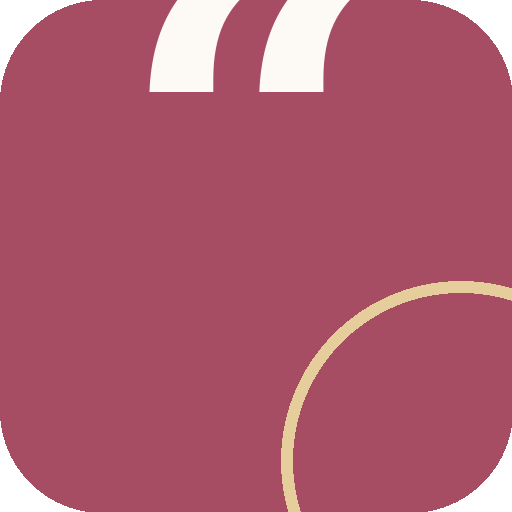
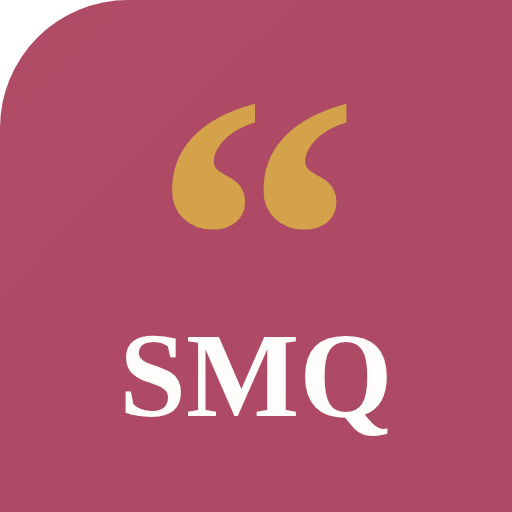
Add files via upload

diff --git a/girl-mom-captions.html b/girl-mom-captions.html
@@ -14,8 +14,6 @@
 <meta name="twitter:card" content="summary">
 <meta name="twitter:title" content="Girl Mom Captions: One-Liners That Fit the Photo">
 <meta name="twitter:description" content="Girl Mom Captions built for the scroll: short, real, copy in one tap. Or drop one onto a matching card. Currently free.">
-<link rel="icon" href="/icon-192.png">
-<link rel="apple-touch-icon" href="/icon-192.png">
 <link rel="manifest" href="/manifest.json">
 <link rel="preconnect" href="https://fonts.googleapis.com">
 <link rel="preconnect" href="https://fonts.gstatic.com" crossorigin>
@@ -25,6 +23,9 @@
 <script type="application/ld+json">{"@context": "https://schema.org", "@type": "BreadcrumbList", "itemListElement": [{"@type": "ListItem", "position": 1, "name": "Strong Mom Quotes", "item": "https://strongmomquotes.com/"}, {"@type": "ListItem", "position": 2, "name": "Captions & Occasions", "item": "https://strongmomquotes.com/captions-hub.html"}, {"@type": "ListItem", "position": 3, "name": "Girl Mom Captions", "item": "https://strongmomquotes.com/girl-mom-captions.html"}]}</script>
 <script type="application/ld+json">{"@context": "https://schema.org", "@type": "CollectionPage", "name": "Girl Mom Captions: One-Liners That Fit the Photo", "description": "Girl Mom Captions built for the scroll: short, real, copy in one tap. Or drop one onto a matching card. Currently free.", "url": "https://strongmomquotes.com/girl-mom-captions.html", "isPartOf": {"@type": "WebSite", "name": "Strong Mom Quotes", "url": "https://strongmomquotes.com/"}}</script>
 <script type="application/ld+json">{"@context": "https://schema.org", "@type": "FAQPage", "mainEntity": [{"@type": "Question", "name": "What is a good caption for this?", "acceptedAnswer": {"@type": "Answer", "text": "“Happy Mother's Day to my first home.” is a strong place to start. The ones that work are specific rather than generic: they name the real feeling instead of reaching for something polished. Pick the line on this page that sounds like your actual situation, not just the prettiest one."}}, {"@type": "Question", "name": "Are these girl mom captions free to use?", "acceptedAnswer": {"@type": "Answer", "text": "Yes. Every quote here is original and written on this site, free to read, copy and share. You can also turn any one into a picture card with the free card maker, with no payment and no card details, currently free. Because they are original and never misattributed, they are also safe to print on a card, mug or gift."}}, {"@type": "Question", "name": "How long should a caption be?", "acceptedAnswer": {"@type": "Answer", "text": "For a quote caption, one line is usually enough. A short, punchy line reads before the scroll and pairs cleanly with a photo, which is why every line on this page is kept short on purpose."}}]}</script>
+<link rel="icon" type="image/svg+xml" href="/favicon.svg">
+<link rel="icon" type="image/png" sizes="32x32" href="/favicon-32.png">
+<link rel="apple-touch-icon" href="/apple-touch-icon.png">
 </head>
 <body>
 <header class="site"><div class="wrap"><nav class="nav" aria-label="Main">

diff --git a/girl-mom-quotes.html b/girl-mom-quotes.html
@@ -14,8 +14,6 @@
 <meta name="twitter:card" content="summary">
 <meta name="twitter:title" content="Girl Mom Quotes: Original Words to Read, Copy and Share">
 <meta name="twitter:description" content="Original girl mom quotes, free to read and copy. Turn any one into a shareable card in seconds. Currently free, no signup to read.">
-<link rel="icon" href="/icon-192.png">
-<link rel="apple-touch-icon" href="/icon-192.png">
 <link rel="manifest" href="/manifest.json">
 <link rel="preconnect" href="https://fonts.googleapis.com">
 <link rel="preconnect" href="https://fonts.gstatic.com" crossorigin>
@@ -25,6 +23,9 @@
 <script type="application/ld+json">{"@context": "https://schema.org", "@type": "BreadcrumbList", "itemListElement": [{"@type": "ListItem", "position": 1, "name": "Strong Mom Quotes", "item": "https://strongmomquotes.com/"}, {"@type": "ListItem", "position": 2, "name": "Mom Quote Collections", "item": "https://strongmomquotes.com/collections-hub.html"}, {"@type": "ListItem", "position": 3, "name": "Girl Mom Quotes", "item": "https://strongmomquotes.com/girl-mom-quotes.html"}]}</script>
 <script type="application/ld+json">{"@context": "https://schema.org", "@type": "CollectionPage", "name": "Girl Mom Quotes: Original Words to Read, Copy and Share", "description": "Original girl mom quotes, free to read and copy. Turn any one into a shareable card in seconds. Currently free, no signup to read.", "url": "https://strongmomquotes.com/girl-mom-quotes.html", "isPartOf": {"@type": "WebSite", "name": "Strong Mom Quotes", "url": "https://strongmomquotes.com/"}}</script>
 <script type="application/ld+json">{"@context": "https://schema.org", "@type": "FAQPage", "mainEntity": [{"@type": "Question", "name": "What is a good girl mom quote?", "acceptedAnswer": {"@type": "Answer", "text": "“She is watching how you love yourself. Teach her by being kind to you.” is a strong place to start. The ones that work are specific rather than generic: they name the real feeling instead of reaching for something polished. Pick the line on this page that sounds like your actual situation, not just the prettiest one."}}, {"@type": "Question", "name": "Are these girl mom quotes free to use?", "acceptedAnswer": {"@type": "Answer", "text": "Yes. Every quote here is original and written on this site, free to read, copy and share. You can also turn any one into a picture card with the free card maker, with no payment and no card details, currently free. Because they are original and never misattributed, they are also safe to print on a card, mug or gift."}}, {"@type": "Question", "name": "Can I turn these into cards for Pinterest or Instagram?", "acceptedAnswer": {"@type": "Answer", "text": "Yes. Every quote has a Make this a card button that opens the free card maker with the words already loaded. Pick a background and a size for Pinterest, Instagram or stories, and download it. Currently free, no payment details."}}]}</script>
+<link rel="icon" type="image/svg+xml" href="/favicon.svg">
+<link rel="icon" type="image/png" sizes="32x32" href="/favicon-32.png">
+<link rel="apple-touch-icon" href="/apple-touch-icon.png">
 </head>
 <body>
 <header class="site"><div class="wrap"><nav class="nav" aria-label="Main">

diff --git a/grandma-affirmations.html b/grandma-affirmations.html
@@ -14,8 +14,6 @@
 <meta name="twitter:card" content="summary">
 <meta name="twitter:title" content="Affirmations for Grandmothers | Strong Mom Quotes">
 <meta name="twitter:description" content="Affirmations for Grandmothers that acknowledge the hard parts, never toxic positivity. Free to read, copy or turn into a card.">
-<link rel="icon" href="/icon-192.png">
-<link rel="apple-touch-icon" href="/icon-192.png">
 <link rel="manifest" href="/manifest.json">
 <link rel="preconnect" href="https://fonts.googleapis.com">
 <link rel="preconnect" href="https://fonts.gstatic.com" crossorigin>
@@ -25,6 +23,9 @@
 <script type="application/ld+json">{"@context": "https://schema.org", "@type": "BreadcrumbList", "itemListElement": [{"@type": "ListItem", "position": 1, "name": "Strong Mom Quotes", "item": "https://strongmomquotes.com/"}, {"@type": "ListItem", "position": 2, "name": "Affirmations", "item": "https://strongmomquotes.com/affirmations-hub.html"}, {"@type": "ListItem", "position": 3, "name": "Affirmations for Grandmothers", "item": "https://strongmomquotes.com/grandma-affirmations.html"}]}</script>
 <script type="application/ld+json">{"@context": "https://schema.org", "@type": "CollectionPage", "name": "Affirmations for Grandmothers | Strong Mom Quotes", "description": "Affirmations for Grandmothers that acknowledge the hard parts, never toxic positivity. Free to read, copy or turn into a card.", "url": "https://strongmomquotes.com/grandma-affirmations.html", "isPartOf": {"@type": "WebSite", "name": "Strong Mom Quotes", "url": "https://strongmomquotes.com/"}}</script>
 <script type="application/ld+json">{"@context": "https://schema.org", "@type": "FAQPage", "mainEntity": [{"@type": "Question", "name": "What is a good affirmations for grandmother?", "acceptedAnswer": {"@type": "Answer", "text": "“The world's okayest title I will ever love: your kid.” is a strong place to start. The ones that work are specific rather than generic: they name the real feeling instead of reaching for something polished. Pick the line on this page that sounds like your actual situation, not just the prettiest one."}}, {"@type": "Question", "name": "Are these affirmations for grandmothers free to use?", "acceptedAnswer": {"@type": "Answer", "text": "Yes. Every quote here is original and written on this site, free to read, copy and share. You can also turn any one into a picture card with the free card maker, with no payment and no card details, currently free. Because they are original and never misattributed, they are also safe to print on a card, mug or gift."}}, {"@type": "Question", "name": "Do affirmations actually help, or is it just positive thinking?", "acceptedAnswer": {"@type": "Answer", "text": "Used honestly, an affirmation is not magic and it is not toxic positivity. It interrupts the shame spiral that says you are failing and offers something truer to hold instead. If a line feels untrue today, say it anyway; that is how belief is slowly rebuilt."}}]}</script>
+<link rel="icon" type="image/svg+xml" href="/favicon.svg">
+<link rel="icon" type="image/png" sizes="32x32" href="/favicon-32.png">
+<link rel="apple-touch-icon" href="/apple-touch-icon.png">
 </head>
 <body>
 <header class="site"><div class="wrap"><nav class="nav" aria-label="Main">

diff --git a/grandma-captions.html b/grandma-captions.html
@@ -14,8 +14,6 @@
 <meta name="twitter:card" content="summary">
 <meta name="twitter:title" content="Grandma Captions: One-Liners That Fit the Photo">
 <meta name="twitter:description" content="Grandma Captions built for the scroll: short, real, copy in one tap. Or drop one onto a matching card. Currently free.">
-<link rel="icon" href="/icon-192.png">
-<link rel="apple-touch-icon" href="/icon-192.png">
 <link rel="manifest" href="/manifest.json">
 <link rel="preconnect" href="https://fonts.googleapis.com">
 <link rel="preconnect" href="https://fonts.gstatic.com" crossorigin>
@@ -25,6 +23,9 @@
 <script type="application/ld+json">{"@context": "https://schema.org", "@type": "BreadcrumbList", "itemListElement": [{"@type": "ListItem", "position": 1, "name": "Strong Mom Quotes", "item": "https://strongmomquotes.com/"}, {"@type": "ListItem", "position": 2, "name": "Captions & Occasions", "item": "https://strongmomquotes.com/captions-hub.html"}, {"@type": "ListItem", "position": 3, "name": "Grandma Captions", "item": "https://strongmomquotes.com/grandma-captions.html"}]}</script>
 <script type="application/ld+json">{"@context": "https://schema.org", "@type": "CollectionPage", "name": "Grandma Captions: One-Liners That Fit the Photo", "description": "Grandma Captions built for the scroll: short, real, copy in one tap. Or drop one onto a matching card. Currently free.", "url": "https://strongmomquotes.com/grandma-captions.html", "isPartOf": {"@type": "WebSite", "name": "Strong Mom Quotes", "url": "https://strongmomquotes.com/"}}</script>
 <script type="application/ld+json">{"@context": "https://schema.org", "@type": "FAQPage", "mainEntity": [{"@type": "Question", "name": "What is a good caption for this?", "acceptedAnswer": {"@type": "Answer", "text": "“Grandmothers are mothers with frosting.” is a strong place to start. The ones that work are specific rather than generic: they name the real feeling instead of reaching for something polished. Pick the line on this page that sounds like your actual situation, not just the prettiest one."}}, {"@type": "Question", "name": "Are these grandma captions free to use?", "acceptedAnswer": {"@type": "Answer", "text": "Yes. Every quote here is original and written on this site, free to read, copy and share. You can also turn any one into a picture card with the free card maker, with no payment and no card details, currently free. Because they are original and never misattributed, they are also safe to print on a card, mug or gift."}}, {"@type": "Question", "name": "How long should a caption be?", "acceptedAnswer": {"@type": "Answer", "text": "For a quote caption, one line is usually enough. A short, punchy line reads before the scroll and pairs cleanly with a photo, which is why every line on this page is kept short on purpose."}}]}</script>
+<link rel="icon" type="image/svg+xml" href="/favicon.svg">
+<link rel="icon" type="image/png" sizes="32x32" href="/favicon-32.png">
+<link rel="apple-touch-icon" href="/apple-touch-icon.png">
 </head>
 <body>
 <header class="site"><div class="wrap"><nav class="nav" aria-label="Main">

diff --git a/grandma-quotes.html b/grandma-quotes.html
@@ -14,8 +14,6 @@
 <meta name="twitter:card" content="summary">
 <meta name="twitter:title" content="Grandma Quotes: Original Words to Read, Copy and Share">
 <meta name="twitter:description" content="Original grandma quotes, free to read and copy. Turn any one into a shareable card in seconds. Currently free.">
-<link rel="icon" href="/icon-192.png">
-<link rel="apple-touch-icon" href="/icon-192.png">
 <link rel="manifest" href="/manifest.json">
 <link rel="preconnect" href="https://fonts.googleapis.com">
 <link rel="preconnect" href="https://fonts.gstatic.com" crossorigin>
@@ -25,6 +23,9 @@
 <script type="application/ld+json">{"@context": "https://schema.org", "@type": "BreadcrumbList", "itemListElement": [{"@type": "ListItem", "position": 1, "name": "Strong Mom Quotes", "item": "https://strongmomquotes.com/"}, {"@type": "ListItem", "position": 2, "name": "Mom Quote Collections", "item": "https://strongmomquotes.com/collections-hub.html"}, {"@type": "ListItem", "position": 3, "name": "Grandma Quotes", "item": "https://strongmomquotes.com/grandma-quotes.html"}]}</script>
 <script type="application/ld+json">{"@context": "https://schema.org", "@type": "CollectionPage", "name": "Grandma Quotes: Original Words to Read, Copy and Share", "description": "Original grandma quotes, free to read and copy. Turn any one into a shareable card in seconds. Currently free.", "url": "https://strongmomquotes.com/grandma-quotes.html", "isPartOf": {"@type": "WebSite", "name": "Strong Mom Quotes", "url": "https://strongmomquotes.com/"}}</script>
 <script type="application/ld+json">{"@context": "https://schema.org", "@type": "FAQPage", "mainEntity": [{"@type": "Question", "name": "What is a good grandma quote?", "acceptedAnswer": {"@type": "Answer", "text": "“She earns the title slowly and keeps it forever.” is a strong place to start. The ones that work are specific rather than generic: they name the real feeling instead of reaching for something polished. Pick the line on this page that sounds like your actual situation, not just the prettiest one."}}, {"@type": "Question", "name": "Are these grandma quotes free to use?", "acceptedAnswer": {"@type": "Answer", "text": "Yes. Every quote here is original and written on this site, free to read, copy and share. You can also turn any one into a picture card with the free card maker, with no payment and no card details, currently free. Because they are original and never misattributed, they are also safe to print on a card, mug or gift."}}, {"@type": "Question", "name": "Can I turn these into cards for Pinterest or Instagram?", "acceptedAnswer": {"@type": "Answer", "text": "Yes. Every quote has a Make this a card button that opens the free card maker with the words already loaded. Pick a background and a size for Pinterest, Instagram or stories, and download it. Currently free, no payment details."}}]}</script>
+<link rel="icon" type="image/svg+xml" href="/favicon.svg">
+<link rel="icon" type="image/png" sizes="32x32" href="/favicon-32.png">
+<link rel="apple-touch-icon" href="/apple-touch-icon.png">
 </head>
 <body>
 <header class="site"><div class="wrap"><nav class="nav" aria-label="Main">

diff --git a/index.html b/index.html
@@ -14,8 +14,6 @@
 <meta name="twitter:card" content="summary">
 <meta name="twitter:title" content="Strong Mom Quotes: Free Quotes and Quote Card Maker">
 <meta name="twitter:description" content="Hundreds of original strong mom quotes, free to read, copy and share. Turn any quote into a beautiful shareable card with our free card maker.">
-<link rel="icon" href="/icon-192.png">
-<link rel="apple-touch-icon" href="/icon-192.png">
 <link rel="manifest" href="/manifest.json">
 <link rel="preconnect" href="https://fonts.googleapis.com">
 <link rel="preconnect" href="https://fonts.gstatic.com" crossorigin>
@@ -43,6 +41,9 @@
 {"@type":"Question","name":"Why do I have to click a link in my email?","acceptedAnswer":{"@type":"Answer","text":"That one click is how we keep the list free of bots without ever showing you a puzzle or a checkbox. Nothing is stored as a real signup until you confirm, and nothing unlocks until then either. The link works for 48 hours, and if it expires you can request a fresh one in seconds."}},{"@type":"Question","name":"I got a new phone. How do I unlock the card maker again?","acceptedAnswer":{"@type":"Answer","text":"Tap Sign in at the top of any page and enter the same email you confirmed before. The card maker unlocks straight away on the new device. There is no password to remember."}},{"@type":"Question","name":"How do I unsubscribe or delete my email?","acceptedAnswer":{"@type":"Answer","text":"Every email we send includes an unsubscribe link. You can also write to [email redacted] at any time and we will delete your address from our records."}}
 ]}
 </script>
+<link rel="icon" type="image/svg+xml" href="/favicon.svg">
+<link rel="icon" type="image/png" sizes="32x32" href="/favicon-32.png">
+<link rel="apple-touch-icon" href="/apple-touch-icon.png">
 </head>
 <body>
 <header class="site"><div class="wrap"><nav class="nav" aria-label="Main">

diff --git a/inspirational-mom-quotes.html b/inspirational-mom-quotes.html
@@ -14,8 +14,6 @@
 <meta name="twitter:card" content="summary">
 <meta name="twitter:title" content="Inspirational Mom Quotes: Made to Fit Anywhere">
 <meta name="twitter:description" content="Inspirational Mom Quotes: short enough for a caption, a card or a print. Free to copy, or make a matching card.">
-<link rel="icon" href="/icon-192.png">
-<link rel="apple-touch-icon" href="/icon-192.png">
 <link rel="manifest" href="/manifest.json">
 <link rel="preconnect" href="https://fonts.googleapis.com">
 <link rel="preconnect" href="https://fonts.gstatic.com" crossorigin>
@@ -25,6 +23,9 @@
 <script type="application/ld+json">{"@context": "https://schema.org", "@type": "BreadcrumbList", "itemListElement": [{"@type": "ListItem", "position": 1, "name": "Strong Mom Quotes", "item": "https://strongmomquotes.com/"}, {"@type": "ListItem", "position": 2, "name": "Short & Format", "item": "https://strongmomquotes.com/formats-hub.html"}, {"@type": "ListItem", "position": 3, "name": "Inspirational Mom Quotes", "item": "https://strongmomquotes.com/inspirational-mom-quotes.html"}]}</script>
 <script type="application/ld+json">{"@context": "https://schema.org", "@type": "CollectionPage", "name": "Inspirational Mom Quotes: Made to Fit Anywhere", "description": "Inspirational Mom Quotes: short enough for a caption, a card or a print. Free to copy, or make a matching card.", "url": "https://strongmomquotes.com/inspirational-mom-quotes.html", "isPartOf": {"@type": "WebSite", "name": "Strong Mom Quotes", "url": "https://strongmomquotes.com/"}}</script>
 <script type="application/ld+json">{"@context": "https://schema.org", "@type": "FAQPage", "mainEntity": [{"@type": "Question", "name": "What is a good inspirational mom quote?", "acceptedAnswer": {"@type": "Answer", "text": "“Rest when you can, forgive yourself when you cannot, and keep going.” is a strong place to start. The ones that work are specific rather than generic: they name the real feeling instead of reaching for something polished. Pick the line on this page that sounds like your actual situation, not just the prettiest one."}}, {"@type": "Question", "name": "Are these inspirational mom quotes free to use?", "acceptedAnswer": {"@type": "Answer", "text": "Yes. Every quote here is original and written on this site, free to read, copy and share. You can also turn any one into a picture card with the free card maker, with no payment and no card details, currently free. Because they are original and never misattributed, they are also safe to print on a card, mug or gift."}}, {"@type": "Question", "name": "Can I turn these into cards for Pinterest or Instagram?", "acceptedAnswer": {"@type": "Answer", "text": "Yes. Every quote has a Make this a card button that opens the free card maker with the words already loaded. Pick a background and a size for Pinterest, Instagram or stories, and download it. Currently free, no payment details."}}]}</script>
+<link rel="icon" type="image/svg+xml" href="/favicon.svg">
+<link rel="icon" type="image/png" sizes="32x32" href="/favicon-32.png">
+<link rel="apple-touch-icon" href="/apple-touch-icon.png">
 </head>
 <body>
 <header class="site"><div class="wrap"><nav class="nav" aria-label="Main">

diff --git a/loss-affirmations.html b/loss-affirmations.html
@@ -14,8 +14,6 @@
 <meta name="twitter:card" content="summary">
 <meta name="twitter:title" content="Gentle Affirmations After Loss | Strong Mom Quotes">
 <meta name="twitter:description" content="Gentle Affirmations After Loss that acknowledge the hard parts, never toxic positivity. Free to read, copy or turn into a card to keep.">
-<link rel="icon" href="/icon-192.png">
-<link rel="apple-touch-icon" href="/icon-192.png">
 <link rel="manifest" href="/manifest.json">
 <link rel="preconnect" href="https://fonts.googleapis.com">
 <link rel="preconnect" href="https://fonts.gstatic.com" crossorigin>
@@ -25,6 +23,9 @@
 <script type="application/ld+json">{"@context": "https://schema.org", "@type": "BreadcrumbList", "itemListElement": [{"@type": "ListItem", "position": 1, "name": "Strong Mom Quotes", "item": "https://strongmomquotes.com/"}, {"@type": "ListItem", "position": 2, "name": "Affirmations", "item": "https://strongmomquotes.com/affirmations-hub.html"}, {"@type": "ListItem", "position": 3, "name": "Gentle Affirmations After Loss", "item": "https://strongmomquotes.com/loss-affirmations.html"}]}</script>
 <script type="application/ld+json">{"@context": "https://schema.org", "@type": "CollectionPage", "name": "Gentle Affirmations After Loss | Strong Mom Quotes", "description": "Gentle Affirmations After Loss that acknowledge the hard parts, never toxic positivity. Free to read, copy or turn into a card to keep.", "url": "https://strongmomquotes.com/loss-affirmations.html", "isPartOf": {"@type": "WebSite", "name": "Strong Mom Quotes", "url": "https://strongmomquotes.com/"}}</script>
 <script type="application/ld+json">{"@context": "https://schema.org", "@type": "FAQPage", "mainEntity": [{"@type": "Question", "name": "What is a good gentle affirmations after lo?", "acceptedAnswer": {"@type": "Answer", "text": "“There is no wrong way to carry a grief this size.” is a strong place to start. The ones that work are specific rather than generic: they name the real feeling instead of reaching for something polished. Pick the line on this page that sounds like your actual situation, not just the prettiest one."}}, {"@type": "Question", "name": "Are these gentle affirmations after loss free to use?", "acceptedAnswer": {"@type": "Answer", "text": "Yes. Every quote here is original and written on this site, free to read, copy and share. You can also turn any one into a picture card with the free card maker, with no payment and no card details, currently free. Because they are original and never misattributed, they are also safe to print on a card, mug or gift."}}, {"@type": "Question", "name": "Do affirmations actually help, or is it just positive thinking?", "acceptedAnswer": {"@type": "Answer", "text": "Used honestly, an affirmation is not magic and it is not toxic positivity. It interrupts the shame spiral that says you are failing and offers something truer to hold instead. If a line feels untrue today, say it anyway; that is how belief is slowly rebuilt."}}]}</script>
+<link rel="icon" type="image/svg+xml" href="/favicon.svg">
+<link rel="icon" type="image/png" sizes="32x32" href="/favicon-32.png">
+<link rel="apple-touch-icon" href="/apple-touch-icon.png">
 </head>
 <body>
 <header class="site"><div class="wrap"><nav class="nav" aria-label="Main">

diff --git a/mom-and-daughter-captions.html b/mom-and-daughter-captions.html
@@ -14,8 +14,6 @@
 <meta name="twitter:card" content="summary">
 <meta name="twitter:title" content="Mom and Daughter Captions: One-Liners That Fit the Photo">
 <meta name="twitter:description" content="Mom and Daughter Captions built for the scroll: short, real, copy in one tap. Or drop one onto a matching card. Currently free.">
-<link rel="icon" href="/icon-192.png">
-<link rel="apple-touch-icon" href="/icon-192.png">
 <link rel="manifest" href="/manifest.json">
 <link rel="preconnect" href="https://fonts.googleapis.com">
 <link rel="preconnect" href="https://fonts.gstatic.com" crossorigin>
@@ -25,6 +23,9 @@
 <script type="application/ld+json">{"@context": "https://schema.org", "@type": "BreadcrumbList", "itemListElement": [{"@type": "ListItem", "position": 1, "name": "Strong Mom Quotes", "item": "https://strongmomquotes.com/"}, {"@type": "ListItem", "position": 2, "name": "Captions & Occasions", "item": "https://strongmomquotes.com/captions-hub.html"}, {"@type": "ListItem", "position": 3, "name": "Mom and Daughter Captions", "item": "https://strongmomquotes.com/mom-and-daughter-captions.html"}]}</script>
 <script type="application/ld+json">{"@context": "https://schema.org", "@type": "CollectionPage", "name": "Mom and Daughter Captions: One-Liners That Fit the Photo", "description": "Mom and Daughter Captions built for the scroll: short, real, copy in one tap. Or drop one onto a matching card. Currently free.", "url": "https://strongmomquotes.com/mom-and-daughter-captions.html", "isPartOf": {"@type": "WebSite", "name": "Strong Mom Quotes", "url": "https://strongmomquotes.com/"}}</script>
 <script type="application/ld+json">{"@context": "https://schema.org", "@type": "FAQPage", "mainEntity": [{"@type": "Question", "name": "What is a good caption for this?", "acceptedAnswer": {"@type": "Answer", "text": "“For my mom, who taught me everything that matters.” is a strong place to start. The ones that work are specific rather than generic: they name the real feeling instead of reaching for something polished. Pick the line on this page that sounds like your actual situation, not just the prettiest one."}}, {"@type": "Question", "name": "Are these mom and daughter captions free to use?", "acceptedAnswer": {"@type": "Answer", "text": "Yes. Every quote here is original and written on this site, free to read, copy and share. You can also turn any one into a picture card with the free card maker, with no payment and no card details, currently free. Because they are original and never misattributed, they are also safe to print on a card, mug or gift."}}, {"@type": "Question", "name": "How long should a caption be?", "acceptedAnswer": {"@type": "Answer", "text": "For a quote caption, one line is usually enough. A short, punchy line reads before the scroll and pairs cleanly with a photo, which is why every line on this page is kept short on purpose."}}]}</script>
+<link rel="icon" type="image/svg+xml" href="/favicon.svg">
+<link rel="icon" type="image/png" sizes="32x32" href="/favicon-32.png">
+<link rel="apple-touch-icon" href="/apple-touch-icon.png">
 </head>
 <body>
 <header class="site"><div class="wrap"><nav class="nav" aria-label="Main">

diff --git a/mom-and-son-captions.html b/mom-and-son-captions.html
@@ -14,8 +14,6 @@
 <meta name="twitter:card" content="summary">
 <meta name="twitter:title" content="Mom and Son Captions: One-Liners That Fit the Photo">
 <meta name="twitter:description" content="Mom and Son Captions built for the scroll: short, real, copy in one tap. Or drop one onto a matching card. Currently free.">
-<link rel="icon" href="/icon-192.png">
-<link rel="apple-touch-icon" href="/icon-192.png">
 <link rel="manifest" href="/manifest.json">
 <link rel="preconnect" href="https://fonts.googleapis.com">
 <link rel="preconnect" href="https://fonts.gstatic.com" crossorigin>
@@ -25,6 +23,9 @@
 <script type="application/ld+json">{"@context": "https://schema.org", "@type": "BreadcrumbList", "itemListElement": [{"@type": "ListItem", "position": 1, "name": "Strong Mom Quotes", "item": "https://strongmomquotes.com/"}, {"@type": "ListItem", "position": 2, "name": "Captions & Occasions", "item": "https://strongmomquotes.com/captions-hub.html"}, {"@type": "ListItem", "position": 3, "name": "Mom and Son Captions", "item": "https://strongmomquotes.com/mom-and-son-captions.html"}]}</script>
 <script type="application/ld+json">{"@context": "https://schema.org", "@type": "CollectionPage", "name": "Mom and Son Captions: One-Liners That Fit the Photo", "description": "Mom and Son Captions built for the scroll: short, real, copy in one tap. Or drop one onto a matching card. Currently free.", "url": "https://strongmomquotes.com/mom-and-son-captions.html", "isPartOf": {"@type": "WebSite", "name": "Strong Mom Quotes", "url": "https://strongmomquotes.com/"}}</script>
 <script type="application/ld+json">{"@context": "https://schema.org", "@type": "FAQPage", "mainEntity": [{"@type": "Question", "name": "What is a good caption for this?", "acceptedAnswer": {"@type": "Answer", "text": "“Thank you, Mom, for a lifetime of soft landings.” is a strong place to start. The ones that work are specific rather than generic: they name the real feeling instead of reaching for something polished. Pick the line on this page that sounds like your actual situation, not just the prettiest one."}}, {"@type": "Question", "name": "Are these mom and son captions free to use?", "acceptedAnswer": {"@type": "Answer", "text": "Yes. Every quote here is original and written on this site, free to read, copy and share. You can also turn any one into a picture card with the free card maker, with no payment and no card details, currently free. Because they are original and never misattributed, they are also safe to print on a card, mug or gift."}}, {"@type": "Question", "name": "How long should a caption be?", "acceptedAnswer": {"@type": "Answer", "text": "For a quote caption, one line is usually enough. A short, punchy line reads before the scroll and pairs cleanly with a photo, which is why every line on this page is kept short on purpose."}}]}</script>
+<link rel="icon" type="image/svg+xml" href="/favicon.svg">
+<link rel="icon" type="image/png" sizes="32x32" href="/favicon-32.png">
+<link rel="apple-touch-icon" href="/apple-touch-icon.png">
 </head>
 <body>
 <header class="site"><div class="wrap"><nav class="nav" aria-label="Main">

diff --git a/mom-birthday-captions.html b/mom-birthday-captions.html
@@ -14,8 +14,6 @@
 <meta name="twitter:card" content="summary">
 <meta name="twitter:title" content="Birthday Captions From Mom: One-Liners That Fit the Photo">
 <meta name="twitter:description" content="Birthday Captions From Mom built for the scroll: short, real, copy in one tap. Or drop one onto a matching card. Currently free.">
-<link rel="icon" href="/icon-192.png">
-<link rel="apple-touch-icon" href="/icon-192.png">
 <link rel="manifest" href="/manifest.json">
 <link rel="preconnect" href="https://fonts.googleapis.com">
 <link rel="preconnect" href="https://fonts.gstatic.com" crossorigin>
@@ -25,6 +23,9 @@
 <script type="application/ld+json">{"@context": "https://schema.org", "@type": "BreadcrumbList", "itemListElement": [{"@type": "ListItem", "position": 1, "name": "Strong Mom Quotes", "item": "https://strongmomquotes.com/"}, {"@type": "ListItem", "position": 2, "name": "Captions & Occasions", "item": "https://strongmomquotes.com/captions-hub.html"}, {"@type": "ListItem", "position": 3, "name": "Birthday Captions From Mom", "item": "https://strongmomquotes.com/mom-birthday-captions.html"}]}</script>
 <script type="application/ld+json">{"@context": "https://schema.org", "@type": "CollectionPage", "name": "Birthday Captions From Mom: One-Liners That Fit the Photo", "description": "Birthday Captions From Mom built for the scroll: short, real, copy in one tap. Or drop one onto a matching card. Currently free.", "url": "https://strongmomquotes.com/mom-birthday-captions.html", "isPartOf": {"@type": "WebSite", "name": "Strong Mom Quotes", "url": "https://strongmomquotes.com/"}}</script>
 <script type="application/ld+json">{"@context": "https://schema.org", "@type": "FAQPage", "mainEntity": [{"@type": "Question", "name": "What is a good caption for this?", "acceptedAnswer": {"@type": "Answer", "text": "“She did not grow them under her heart, but inside it.” is a strong place to start. The ones that work are specific rather than generic: they name the real feeling instead of reaching for something polished. Pick the line on this page that sounds like your actual situation, not just the prettiest one."}}, {"@type": "Question", "name": "Are these birthday captions from mom free to use?", "acceptedAnswer": {"@type": "Answer", "text": "Yes. Every quote here is original and written on this site, free to read, copy and share. You can also turn any one into a picture card with the free card maker, with no payment and no card details, currently free. Because they are original and never misattributed, they are also safe to print on a card, mug or gift."}}, {"@type": "Question", "name": "How long should a caption be?", "acceptedAnswer": {"@type": "Answer", "text": "For a quote caption, one line is usually enough. A short, punchy line reads before the scroll and pairs cleanly with a photo, which is why every line on this page is kept short on purpose."}}]}</script>
+<link rel="icon" type="image/svg+xml" href="/favicon.svg">
+<link rel="icon" type="image/png" sizes="32x32" href="/favicon-32.png">
+<link rel="apple-touch-icon" href="/apple-touch-icon.png">
 </head>
 <body>
 <header class="site"><div class="wrap"><nav class="nav" aria-label="Main">

diff --git a/mom-guilt-affirmations.html b/mom-guilt-affirmations.html
@@ -14,8 +14,6 @@
 <meta name="twitter:card" content="summary">
 <meta name="twitter:title" content="Mom Guilt Affirmations: Honest Words That Actually Help">
 <meta name="twitter:description" content="Mom Guilt Affirmations that acknowledge the hard parts, never toxic positivity. Free to read, copy or turn into a card to keep.">
-<link rel="icon" href="/icon-192.png">
-<link rel="apple-touch-icon" href="/icon-192.png">
 <link rel="manifest" href="/manifest.json">
 <link rel="preconnect" href="https://fonts.googleapis.com">
 <link rel="preconnect" href="https://fonts.gstatic.com" crossorigin>
@@ -25,6 +23,9 @@
 <script type="application/ld+json">{"@context": "https://schema.org", "@type": "BreadcrumbList", "itemListElement": [{"@type": "ListItem", "position": 1, "name": "Strong Mom Quotes", "item": "https://strongmomquotes.com/"}, {"@type": "ListItem", "position": 2, "name": "Affirmations", "item": "https://strongmomquotes.com/affirmations-hub.html"}, {"@type": "ListItem", "position": 3, "name": "Mom Guilt Affirmations", "item": "https://strongmomquotes.com/mom-guilt-affirmations.html"}]}</script>
 <script type="application/ld+json">{"@context": "https://schema.org", "@type": "CollectionPage", "name": "Mom Guilt Affirmations: Honest Words That Actually Help", "description": "Mom Guilt Affirmations that acknowledge the hard parts, never toxic positivity. Free to read, copy or turn into a card to keep.", "url": "https://strongmomquotes.com/mom-guilt-affirmations.html", "isPartOf": {"@type": "WebSite", "name": "Strong Mom Quotes", "url": "https://strongmomquotes.com/"}}</script>
 <script type="application/ld+json">{"@context": "https://schema.org", "@type": "FAQPage", "mainEntity": [{"@type": "Question", "name": "What is a good mom guilt affirmation?", "acceptedAnswer": {"@type": "Answer", "text": "“Comparison is a thief, and today I am not letting it in.” is a strong place to start. The ones that work are specific rather than generic: they name the real feeling instead of reaching for something polished. Pick the line on this page that sounds like your actual situation, not just the prettiest one."}}, {"@type": "Question", "name": "Are these mom guilt affirmations free to use?", "acceptedAnswer": {"@type": "Answer", "text": "Yes. Every quote here is original and written on this site, free to read, copy and share. You can also turn any one into a picture card with the free card maker, with no payment and no card details, currently free. Because they are original and never misattributed, they are also safe to print on a card, mug or gift."}}, {"@type": "Question", "name": "Do affirmations actually help, or is it just positive thinking?", "acceptedAnswer": {"@type": "Answer", "text": "Used honestly, an affirmation is not magic and it is not toxic positivity. It interrupts the shame spiral that says you are failing and offers something truer to hold instead. If a line feels untrue today, say it anyway; that is how belief is slowly rebuilt."}}]}</script>
+<link rel="icon" type="image/svg+xml" href="/favicon.svg">
+<link rel="icon" type="image/png" sizes="32x32" href="/favicon-32.png">
+<link rel="apple-touch-icon" href="/apple-touch-icon.png">
 </head>
 <body>
 <header class="site"><div class="wrap"><nav class="nav" aria-label="Main">